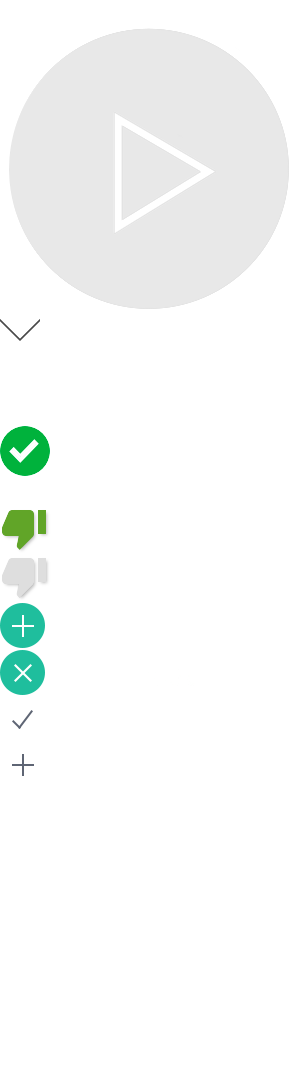
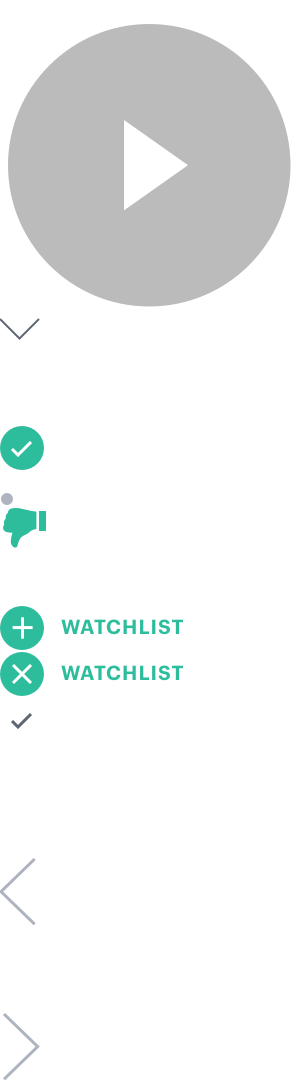
pushing all the updates to masthead and home

diff --git a/home.css b/home.css
@@ -42,9 +42,21 @@ div.tray div.item.size-1x1.watchlist-overlay .bottom-area div.metadata-area div.
 }
 .tray h3 a.toggle:after{
       background-image: url(http://localhost:8888/bowie/images/sprite5.png);
+      margin-left: 12px;
+    margin-bottom: 2px;
+    content: '';
+    display: inline-block;
+    background-repeat: no-repeat;
+    background-position: 1px -943px;
+    height: 15px;
+    width: 10px;
 }
 .tray h3 a.toggle:hover:after{
       background-image: url(http://localhost:8888/bowie/images/sprite5.png);
+          background-repeat: no-repeat;
+    background-position: 1px -926px;
+    height: 15px;
+    width: 20px;
 }
 /******trays key arts******/
 div.tray div.item div.thumbnail {
@@ -83,6 +95,8 @@ div.grid div.item div.badge-on-thumb.watchlist-badge.add-to-watchlist.animating,
   /*animated state*/
   div.grid div.item div.badge-on-thumb.watchlist-badge.delete-from-watchlist.animated, div.tray div.item div.badge-on-thumb.watchlist-badge.delete-from-watchlist.animated{
     content:"zac is great";
+  background-image: url(http://localhost:8888/bowie/images/sprite4.png);
+
   }
 /* taking out strange facebook/follow toolbar**/
 body.small #tool-item-container .tool-bar{
@@ -97,6 +111,65 @@ body.large #tool-item-container .tool-bar {
 }
 div#referral-tab-container{
   display:none;
+}
+
+
+/*******************************************/
+/************** MEDIA QUERY START*****************/
+/*****************************************/
+@media (-webkit-min-device-pixel-ratio: 2.0), not all, not all {
+.tray a.next {
+    background-image: url(http://localhost:8888/bowie/images/sprite5_retina.png);
+}
+.tray a.next:hover {
+    background-image: url(http://localhost:8888/bowie/images/sprite5_retina.png);
+}
+.tray a.prev{
+  background-image: url(http://localhost:8888/bowie/images/sprite5_retina.png);
+}
+.tray a.prev:hover{
+  background-image: url(http://localhost:8888/bowie/images/sprite5_retina.png);
+}
+.tray h3 a.toggle:after{
+      background-image: url(http://localhost:8888/bowie/images/sprite5_retina.png);
+    background-size: 114px 918px;
+    background-position: 0 -734px;
+}
+.tray h3 a.toggle:hover:after{
+      background-image: url(http://localhost:8888/bowie/images/sprite5_retina.png);
+          background-repeat: no-repeat;
+      background-position: 0 -720px;
+          background-size: 114px 918px;
+    height: 15px;
+    width: 20px;
+}
+
+
+
+
+div.grid div.item div.badge-on-thumb.watchlist-badge.delete-from-watchlist.regular, div.tray div.item div.badge-on-thumb.watchlist-badge.delete-from-watchlist.regular {
+    background-image: url(http://localhost:8888/bowie/images/sprite5_retina.png);
+}
+div.grid div.item div.badge-on-thumb.watchlist-badge.delete-from-watchlist.regular:hover, div.tray div.item div.badge-on-thumb.watchlist-badge.delete-from-watchlist.regular:hover{
+      background-image: url(http://localhost:8888/bowie/images/sprite5_retina.png);
+}
+div.grid div.item div.badge-on-thumb.watchlist-badge.add-to-watchlist.regular, div.tray div.item div.badge-on-thumb.watchlist-badge.add-to-watchlist.regular{
+  background-image: url(http://localhost:8888/bowie/images/sprite5_retina.png);
+}
+/* animation for add to check*/
+div.grid div.item div.badge-on-thumb.watchlist-badge.add-to-watchlist.animating, div.tray div.item div.badge-on-thumb.watchlist-badge.add-to-watchlist.animating{
+  content:"zac";
+  background-image: url(http://localhost:8888/bowie/images/addDelete_animation.png);
+  }
+  div.grid div.item div.badge-on-thumb.watchlist-badge.delete-from-watchlist.animating, div.tray div.item div.badge-on-thumb.watchlist-badge.delete-from-watchlist.animating{
+ background-image: url(http://localhost:8888/bowie/images/addDelete_animation.png);
+  }
+  /*animated state*/
+  div.grid div.item div.badge-on-thumb.watchlist-badge.delete-from-watchlist.animated, div.tray div.item div.badge-on-thumb.watchlist-badge.delete-from-watchlist.animated{
+    content:"zac is great";
+  background-image: url(http://localhost:8888/bowie/images/sprite5_retina.png);
+
+  }
 }
 /*******************************************/
 /************** HOME END*****************/

diff --git a/global_elements.css b/global_elements.css
@@ -250,7 +250,7 @@ div.nav-container .nav-panel .menu a.add-profile {
 /*  Masthead  */
 
 .masthead-sprite, #masthead #key-art ul.slides li .play-button, #masthead #key-art ul.slides li .add-to-watchlist, #masthead #key-art ul.slides li .add-to-watchlist:hover, #masthead #key-art ul.slides li .add-to-watchlist.hover, #masthead #key-art ul.slides li .remove-from-watchlist, #masthead #key-art ul.slides li .remove-from-watchlist:hover, #masthead #key-art ul.slides li .remove-from-watchlist.hover, #masthead #key-art ul.slides li .dislike-button:before, #masthead #key-art ul.slides li .dislike-button:hover:before, #masthead #key-art ul.slides li .dislike-button.hover:before, #masthead #key-art ul.slides .plus-promo .try-button .button-arrow-icon, #masthead .left-arrow .arrow-icon, #masthead .left-arrow.hover .arrow-icon, #masthead .right-arrow .arrow-icon, #masthead .right-arrow.hover .arrow-icon, .feedback-thanks-box .checkmark, body.small #masthead.small #key-art ul.slides .plus-promo .try-button .button-arrow-icon, #masthead.controls ol.flex-control-nav li a, #masthead.controls ol.flex-control-nav li a.active, #key-art .play-button, .player-tray .tray.TYPE_S_ONE_ROW .prev, .embed-tray .tray.TYPE_S_ONE_ROW .prev, .player-tray .tray.TYPE_S_ONE_ROW .prev:hover, .embed-tray .tray.TYPE_S_ONE_ROW .prev:hover, .player-tray .tray.TYPE_S_ONE_ROW .next, .embed-tray .tray.TYPE_S_ONE_ROW .next, .player-tray .tray.TYPE_S_ONE_ROW .next:hover, .embed-tray .tray.TYPE_S_ONE_ROW .next:hover, .welcome .plan-anchor {
-    background-image: url(http://localhost:8888/bowie/images/playerCoverSprite.png);
+    background-image: url(http://localhost:8888/bowie/images/masthead.png);
 }
 #masthead #key-art ul.slides li img.keyart {
     top: 60px;
@@ -418,6 +418,11 @@ div#footer .footer-font {
   #masthead #key-art ul.slides li .play-button{
     background-image:url('http://localhost:8888/bowie/images/masthead_retina.png')!important;
   }
+.masthead-sprite, #masthead #key-art ul.slides li .play-button, #masthead #key-art ul.slides li .add-to-watchlist, #masthead #key-art ul.slides li .add-to-watchlist:hover, #masthead #key-art ul.slides li .add-to-watchlist.hover, #masthead #key-art ul.slides li .remove-from-watchlist, #masthead #key-art ul.slides li .remove-from-watchlist:hover, #masthead #key-art ul.slides li .remove-from-watchlist.hover, #masthead #key-art ul.slides li .dislike-button:before, #masthead #key-art ul.slides li .dislike-button:hover:before, #masthead #key-art ul.slides li .dislike-button.hover:before, #masthead #key-art ul.slides .plus-promo .try-button .button-arrow-icon, #masthead .left-arrow .arrow-icon, #masthead .left-arrow.hover .arrow-icon, #masthead .right-arrow .arrow-icon, #masthead .right-arrow.hover .arrow-icon, .feedback-thanks-box .checkmark, body.small #masthead.small #key-art ul.slides .plus-promo .try-button .button-arrow-icon, #masthead.controls ol.flex-control-nav li a, #masthead.controls ol.flex-control-nav li a.active, #key-art .play-button, .player-tray .tray.TYPE_S_ONE_ROW .prev, .embed-tray .tray.TYPE_S_ONE_ROW .prev, .player-tray .tray.TYPE_S_ONE_ROW .prev:hover, .embed-tray .tray.TYPE_S_ONE_ROW .prev:hover, .player-tray .tray.TYPE_S_ONE_ROW .next, .embed-tray .tray.TYPE_S_ONE_ROW .next, .player-tray .tray.TYPE_S_ONE_ROW .next:hover, .embed-tray .tray.TYPE_S_ONE_ROW .next:hover, .welcome .plan-anchor {
+    background-image: url(http://localhost:8888/bowie/images/masthead_retina.png);
+}
+  
+
 }
 /*******************************************/
 /************** MEDIA QUERY END*****************/
